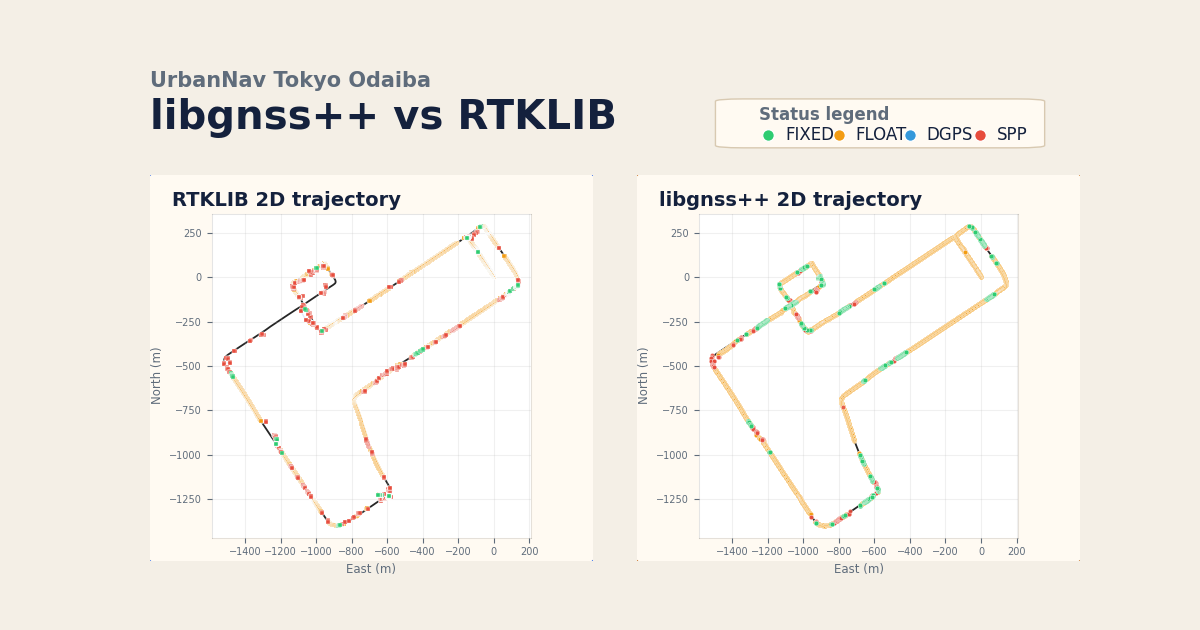
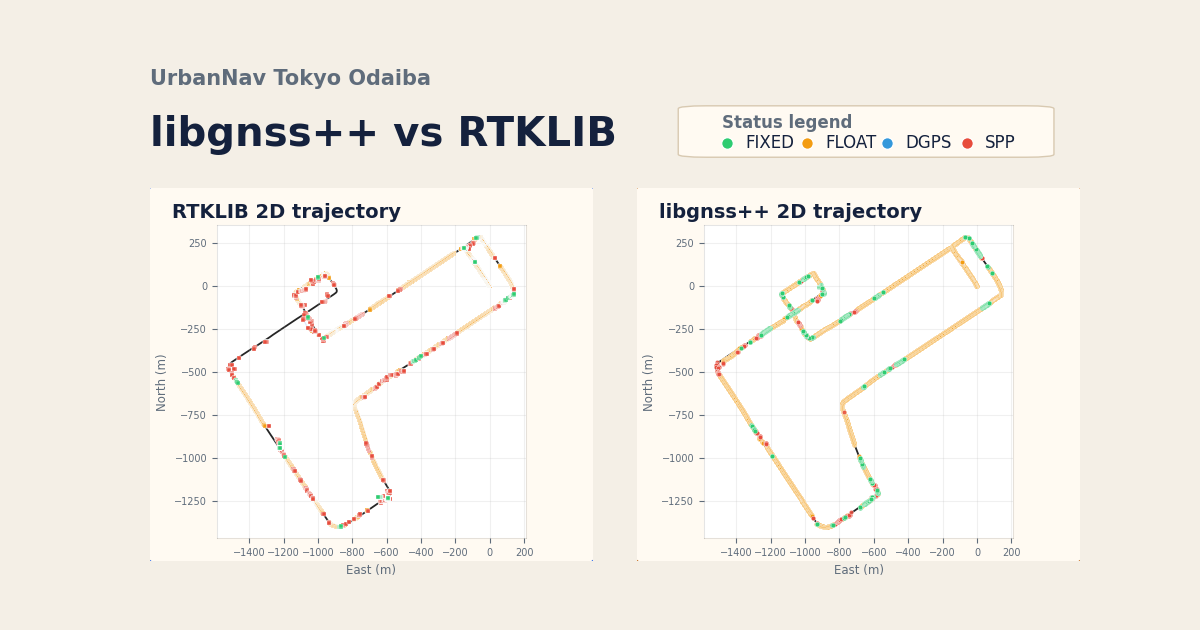
Relax Odaiba social card header spacing

diff --git a/scripts/generate_odaiba_social_card.py b/scripts/generate_odaiba_social_card.py
@@ -32,10 +32,10 @@ PANEL = "#fffaf2"
 def draw_status_legend(ax) -> None:
     from matplotlib.patches import FancyBboxPatch
 
-    box_x = 0.62
-    box_y = 0.12
-    box_w = 0.33
-    box_h = 0.58
+    box_x = 0.58
+    box_y = 0.18
+    box_w = 0.38
+    box_h = 0.50
     panel = FancyBboxPatch(
         (box_x, box_y),
         box_w,
@@ -50,7 +50,7 @@ def draw_status_legend(ax) -> None:
 
     ax.text(
         box_x + 0.035,
-        box_y + box_h - 0.08,
+        box_y + box_h - 0.07,
         "Status legend",
         fontsize=12.0,
         color=MUTED,
@@ -59,8 +59,8 @@ def draw_status_legend(ax) -> None:
     )
 
     for index, status_name in enumerate(STATUS_ORDER):
-        x = box_x + 0.045 + index * 0.076
-        y = box_y + 0.15
+        x = box_x + 0.040 + index * 0.086
+        y = box_y + 0.13
         ax.scatter(
             [x],
             [y],
@@ -70,7 +70,7 @@ def draw_status_legend(ax) -> None:
             linewidths=0.9,
             zorder=3,
         )
-        ax.text(x + 0.018, y, status_name, fontsize=12.0, color=TEXT, va="center")
+        ax.text(x + 0.020, y, status_name, fontsize=12.0, color=TEXT, va="center")
 
 
 def draw_trajectory_panel(ax, title: str, reference_xy, matched, solver: str, edge_color: str, limits) -> None:
@@ -127,14 +127,14 @@ def main() -> None:
     limits = padded_xy_limits(ref_xy, matched_xy(rtklib_matched), matched_xy(lib_matched), min_pad=24.0)
 
     fig = plt.figure(figsize=(12, 6.3), dpi=100, facecolor=BG)
-    grid = fig.add_gridspec(2, 2, height_ratios=[0.25, 1.19], hspace=0.08, wspace=0.10)
+    grid = fig.add_gridspec(2, 2, height_ratios=[0.30, 1.14], hspace=0.06, wspace=0.10)
 
     ax_head = fig.add_subplot(grid[0, :])
     ax_head.set_axis_off()
     ax_head.set_xlim(0, 1)
     ax_head.set_ylim(0, 1)
-    ax_head.text(0.0, 0.86, args.title, fontsize=15, color=MUTED, weight="bold")
-    ax_head.text(0.0, 0.34, "libgnss++ vs RTKLIB", fontsize=29, color=TEXT, weight="bold")
+    ax_head.text(0.0, 0.90, args.title, fontsize=15, color=MUTED, weight="bold")
+    ax_head.text(0.0, 0.28, "libgnss++ vs RTKLIB", fontsize=29, color=TEXT, weight="bold")
     draw_status_legend(ax_head)
 
     ax_rtk = fig.add_subplot(grid[1, 0])
